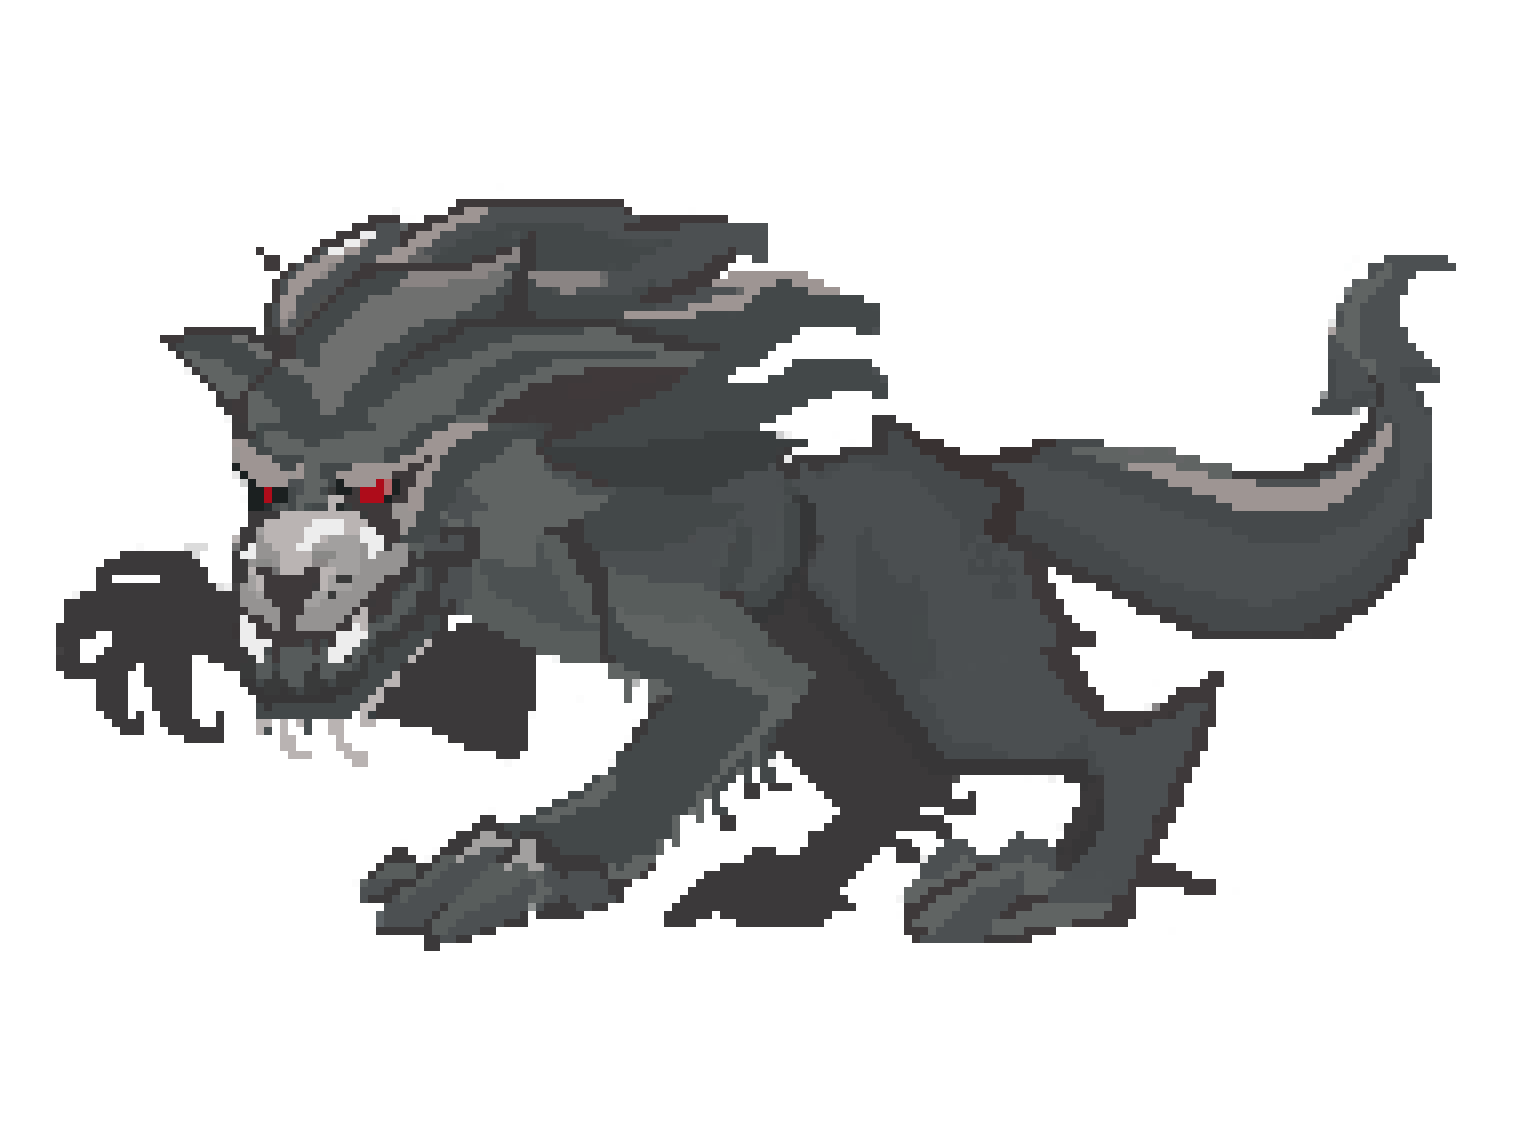
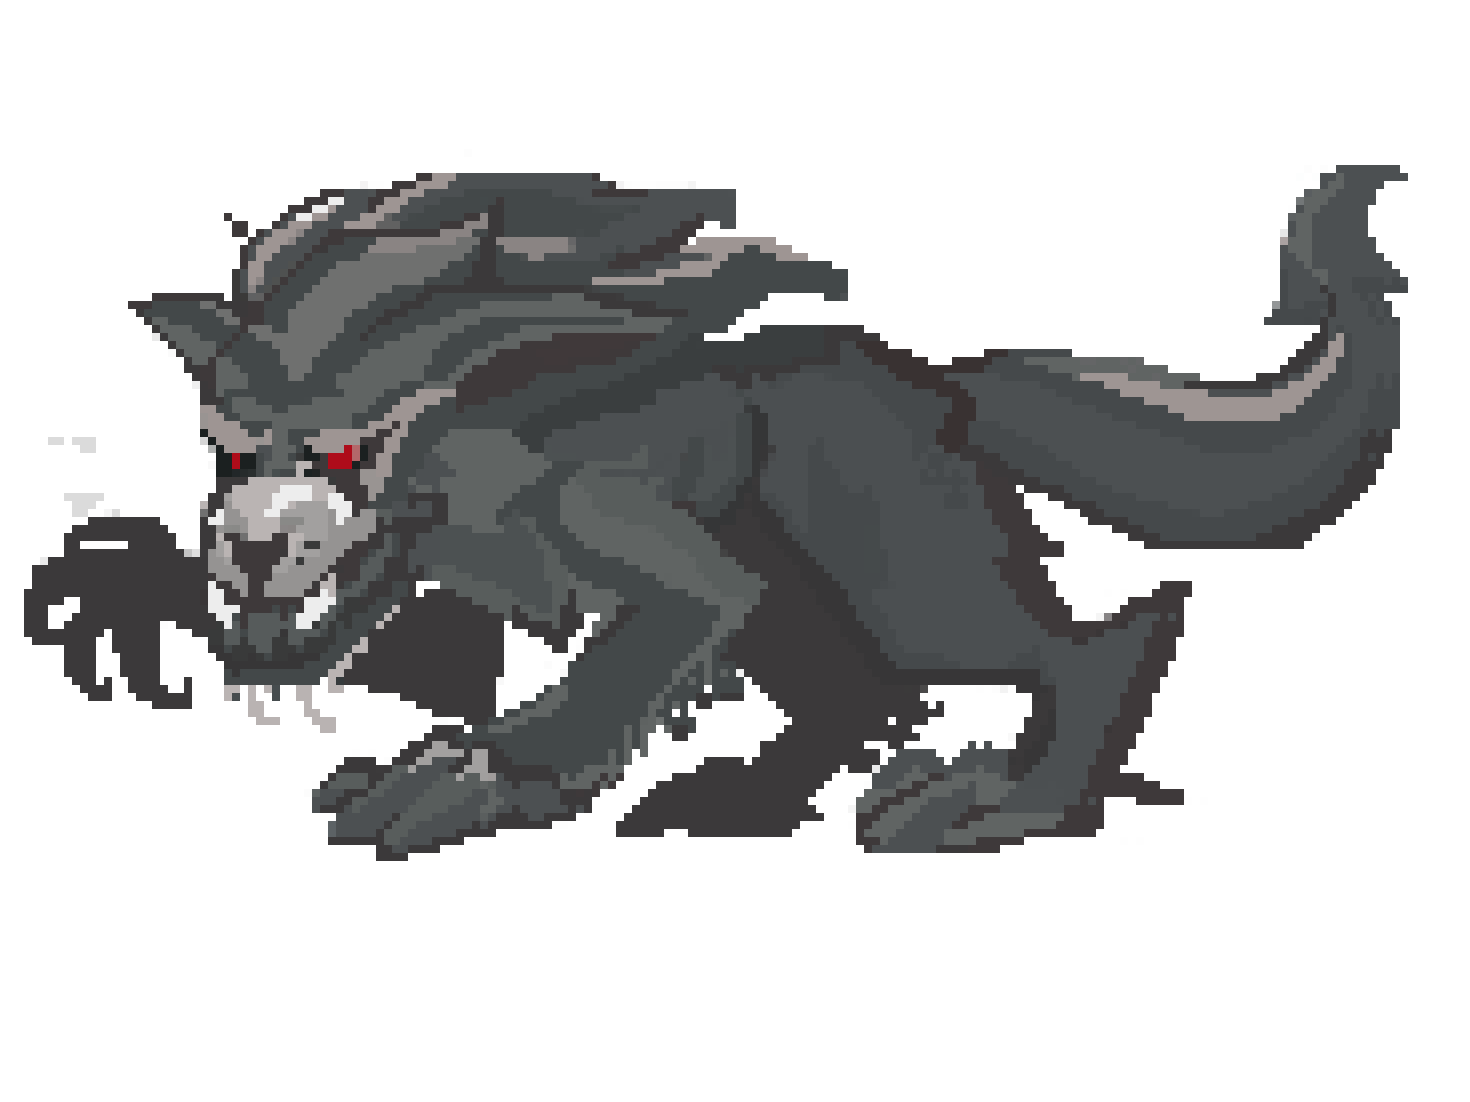
added loading screen and new animations for idle left/right monster'

diff --git a/client/gui/GUIManager.cpp b/client/gui/GUIManager.cpp
@@ -31,6 +31,7 @@ GUIManager::GUIManager(int width, int height, int fbWidth, int fbHeight) {
 	connectingScreen = new ConnectingScreen(vg);
 	endScreen = new EndScreen(vg);
 	splashScreen = new SplashScreen(vg);
+	loadingScreen = new LoadingScreen(vg);
 	
 	// Will be initialized later
 	for (int i = 0; i < NUM_COOLDOWNS; i++) {
@@ -53,6 +54,7 @@ void GUIManager::draw() {
 	miniMap->draw(this->windowWidth - (MAP_WIDTH / 2), this->windowHeight - (MAP_HEIGHT / 2), (MAP_WIDTH / 2), (MAP_HEIGHT / 2));
 	selectScreen->draw(this->windowWidth, this->windowHeight);
 	splashScreen->draw(this->windowWidth, this->windowHeight);
+	loadingScreen->draw(this->windowWidth, this->windowHeight);
 	connectingScreen->draw(this->windowWidth, this->windowHeight);
 	endScreen->draw(this->windowWidth, this->windowHeight);
 
@@ -97,6 +99,10 @@ void GUIManager::setGameEndVisible(bool visibility) {
 
 void GUIManager::setSplashScreenVisible(bool visibility) {
 	splashScreen->setVisible(visibility);
+}
+
+void GUIManager::setLoadingScreenVisible(bool visibility) {
+	loadingScreen->setVisible(visibility);
 }
 
 

diff --git a/client/gui/LoadingScreen.cpp b/client/gui/LoadingScreen.cpp
@@ -1,0 +1,35 @@
+#include "LoadingScreen.h"
+
+LoadingScreen::LoadingScreen(NVGcontext* vg) {
+    this->vg = vg;
+    this->isVisible = false;
+    this->isLoaded = false;
+    // this->loadingPercentage = 0.f;
+
+    this->image = nvgCreateImage(vg, "shaders/fullscreen_elements/loadingscreen.png", 0);
+    nvgImageSize(vg, image, &imgWidth, &imgHeight);
+}
+
+
+void LoadingScreen::draw(float windowWidth, float windowHeight) {
+
+    // If not visible, don't draw it.
+    if(!isVisible) {
+        return;
+    }
+
+	nvgSave(vg); 
+
+
+    NVGpaint imgPaint =  nvgImagePattern(vg, 0, 0, windowWidth, windowHeight, 0.0f/180.0f*NVG_PI, this->image, 1.f);
+    nvgBeginPath(vg);
+    nvgRoundedRect(vg,  0, 0, windowWidth, windowHeight, 5);
+    nvgFillPaint(vg, imgPaint);
+    nvgFill(vg);
+
+	nvgRestore(vg); 
+}
+
+void LoadingScreen::setVisible(bool visible) {
+    isVisible = visible;
+}

diff --git a/client/gui/GUIManager.h b/client/gui/GUIManager.h
@@ -11,6 +11,7 @@
 #include "EndScreen.h"
 #include "SplashScreen.h"
 #include "CooldownIcon.h"
+#include "LoadingScreen.h"
 #include "../nanovg/nanovg.h"
 
 #define NUM_COOLDOWNS 2
@@ -39,6 +40,7 @@ public:
     ConnectingScreen* connectingScreen;
     EndScreen* endScreen;
     SplashScreen* splashScreen;
+    LoadingScreen* loadingScreen;
     CooldownIcon* cooldownIcons[NUM_COOLDOWNS]; // 2 because there's attack and unique attack.
 
     GUIManager(int width, int height, int fbWidth, int fbHeight);
@@ -52,6 +54,7 @@ public:
     void setGameEndVisible(bool visibility);
     void setSplashScreenVisible(bool visibility);
     void setSplashLoaded(bool loaded);
+    void setLoadingScreenVisible(bool visibility);
     
     void initCooldownIcons(PlayerType type);
     void handleMouseSelect(int x, int y);

diff --git a/client/Window.cpp b/client/Window.cpp
@@ -139,6 +139,7 @@ bool Window::initializeObjects()
 	//  ==========  End of Character Initialization ========== 
 
 	guiManager->setSplashLoaded(true);
+	guiManager->setLoadingScreenVisible(false);
 	return true;
 }
 
@@ -357,9 +358,10 @@ GLFWwindow* Window::createWindow(int width, int height)
 
 	// Display once to show splash screen, then we can deal with connecting window.
 	audioProgram->playAudioWithLooping(TITLE_MUSIC);
-	guiManager->setSplashScreenVisible(true);
+	guiManager->setLoadingScreenVisible(true);
 	Window::displayCallback(window);
 	guiManager->setConnectingScreenVisible(true);
+	guiManager->setSplashScreenVisible(true); 
 
 	// Set swap interval to 1 if you want buffer 
 	glfwSwapInterval(0);

diff --git a/client/gui/LoadingScreen.h b/client/gui/LoadingScreen.h
@@ -1,0 +1,23 @@
+#ifndef _GUI_LOADINGSCREEN_H_
+#define _GUI_LOADINGSCREEN_H_
+
+#include "../Core.h" // GL required for the NanoGUI.
+#include "../nanovg/nanovg.h"
+#include <GLFW/glfw3.h>
+
+class LoadingScreen {
+
+public:
+    NVGcontext* vg;
+    bool isVisible;
+    int image, imgWidth, imgHeight;
+    bool isLoaded;
+    float loadingPercentage;
+    
+    LoadingScreen(NVGcontext* vg);
+    void draw(float windowWidth, float windowHeight);
+    void setVisible(bool visible);
+
+};
+
+#endif
